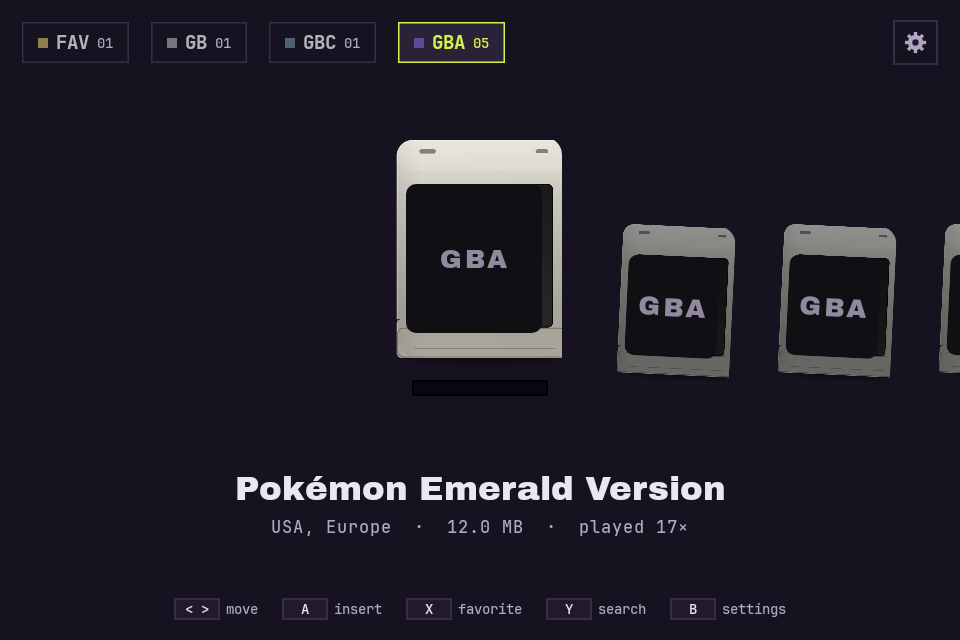
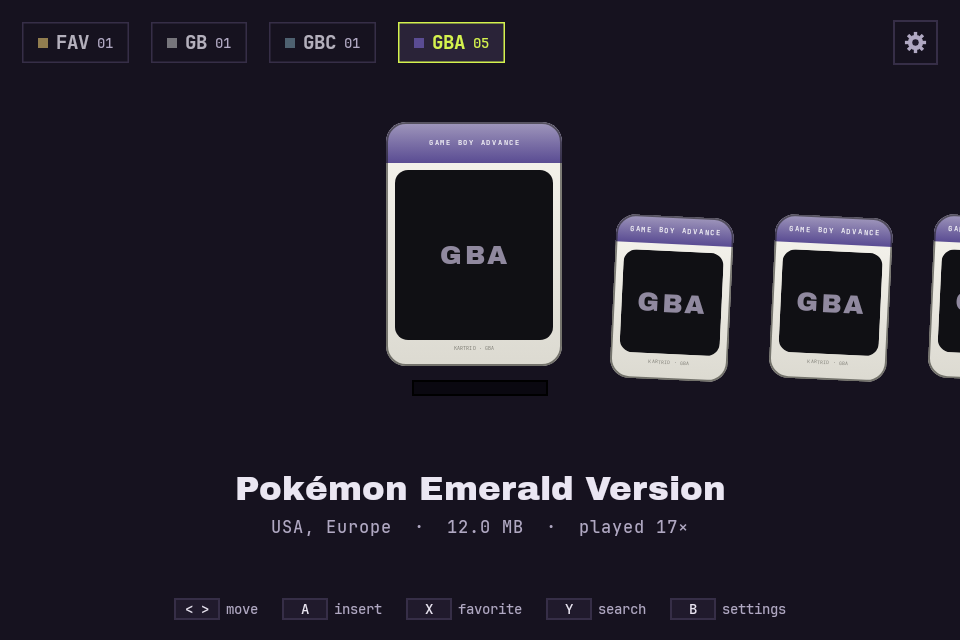
style E: kartrid ala Nintendo Switch (cap warna per-sistem, art area rounded, micro label)

Changed region(s): [[0.625, 0.3125, 0.9375, 0.5938], [0.375, 0.1875, 0.5938, 0.5938], [0.9688, 0.3125, 1.0, 0.5938]]

diff --git a/android/app/src/main/java/id/iqbaldev/kartrid/ui/Cartridge.kt b/android/app/src/main/java/id/iqbaldev/kartrid/ui/Cartridge.kt
@@ -52,8 +52,10 @@ import androidx.compose.ui.graphics.asImageBitmap
  *   kartrid retro (index.html/user, 17 Okt 2026). Semua style pakai Fit.
  * - D "3D": shell photoreal hasil render (drawable-nodpi/cart_gba.png) + boxart
  *   di-overlay pas label rect — 17 Okt 2026, user: "cari file 3d cartridge gba".
+ * - E "Switch": kartrid ala Nintendo Switch — card rounded tipis, top cap WARNA
+ *   per-sistem (sys.shell), area art rounded di bawah + micro label — 17 Okt.
  */
-enum class CartStyle { A, B, C, D }
+enum class CartStyle { A, B, C, D, E }
 
 @Composable
 fun Cartridge(
@@ -66,10 +68,14 @@ fun Cartridge(
     clipFrac: Float = 0f,
     showNotch: Boolean = focused,
     showBand: Boolean = focused,
-    style: CartStyle = CartStyle.D,
+    style: CartStyle = CartStyle.E,
 ) {
     if (style == CartStyle.D) {
         Cartridge3D(sys, art, w, h, focused, modifier, clipFrac)
+        return
+    }
+    if (style == CartStyle.E) {
+        CartridgeSwitch(sys, art, w, h, focused, modifier, clipFrac)
         return
     }
     val outlineRoom = if (focused) 12f else 0f
@@ -80,6 +86,7 @@ fun Cartridge(
         CartStyle.C ->
             RoundedCornerShape(topStart = 16.dp, topEnd = 16.dp, bottomEnd = 4.dp, bottomStart = 4.dp)
         CartStyle.D -> RoundedCornerShape(8.dp) // unreachable (early return), biar exhaustive
+        CartStyle.E -> RoundedCornerShape(8.dp) // unreachable (early return), biar exhaustive
     }
     val shell: Color = shellColor(sys.shell, focused)
     val shadow = if (focused) 8f else 5f
@@ -367,6 +374,108 @@ private fun Cartridge3D(
                     )
                 }
             }
+        }
+    }
+}
+
+/** Style E: kartrid ala Nintendo Switch — card rounded, top cap warna sistem, art bawah */
+@Composable
+private fun CartridgeSwitch(
+    sys: Sys,
+    art: ImageBitmap?,
+    w: Float,
+    h: Float,
+    focused: Boolean,
+    modifier: Modifier = Modifier,
+    clipFrac: Float = 0f,
+) {
+    val shape = RoundedCornerShape(20.dp)
+    val capH = h * 0.17f
+    val artY = capH + 7f
+    val artH = h - artY - 26f
+
+    Box(
+        modifier
+            .size(w.dp, h.dp)
+            .drawWithContent {
+                val bottom = size.height * (1f - clipFrac.coerceIn(0f, 1f))
+                clipRect(right = size.width, bottom = bottom) { this@drawWithContent.drawContent() }
+            }
+            .clip(shape)
+            .border(1.5.dp, Color(0x88171711), shape),
+    ) {
+        // body plastik off-white
+        Box(
+            Modifier
+                .fillMaxSize()
+                .background(Brush.verticalGradient(listOf(Color(0xFFF7F5EF), Color(0xFFDCDAD1)))),
+        )
+        // top cap = warna sistem
+        Box(
+            Modifier
+                .fillMaxWidth()
+                .height(capH.dp)
+                .background(
+                    Brush.verticalGradient(
+                        listOf(Color(sys.shell).copy(alpha = 0.55f), Color(sys.shell)),
+                    ),
+                ),
+            contentAlignment = Alignment.Center,
+        ) {
+            Text(
+                text = sys.longLabel,
+                color = Color(0xEEFFFFFF),
+                fontFamily = MONO,
+                fontSize = 5.6.sp,
+                letterSpacing = 1.4.sp,
+                maxLines = 1,
+            )
+        }
+        // area art rounded
+        Box(
+            Modifier
+                .offset(y = artY.dp)
+                .padding(horizontal = 9.dp)
+                .fillMaxWidth()
+                .height(artH.dp)
+                .clip(RoundedCornerShape(13.dp))
+                .background(Color(0xFF101014)),
+        ) {
+            if (art != null) {
+                Image(
+                    bitmap = art,
+                    contentDescription = null,
+                    modifier = Modifier.fillMaxSize(),
+                    contentScale = ContentScale.Fit,
+                    colorFilter = if (focused) null else ColorFilter.colorMatrix(dimMatrix()),
+                )
+            } else {
+                Box(Modifier.fillMaxSize(), contentAlignment = Alignment.Center) {
+                    Text(
+                        text = sys.label,
+                        color = T.mutedFg.copy(alpha = 0.8f),
+                        fontFamily = DISPLAY,
+                        fontSize = 24.sp,
+                        letterSpacing = 2.sp,
+                    )
+                }
+            }
+        }
+        // micro label bawah
+        Box(
+            Modifier
+                .fillMaxWidth()
+                .offset(y = (h - 21f).dp),
+            contentAlignment = Alignment.Center,
+        ) {
+            Text(
+                text = "KARTRID · ${sys.ext.uppercase()}",
+                color = Color(0x8C171711),
+                fontFamily = MONO,
+                fontSize = 3.8.sp,
+                letterSpacing = 1.1.sp,
+                maxLines = 1,
+            )
         }
     }
 }

diff --git a/android/app/src/test/java/id/iqbaldev/kartrid/PreviewTest.kt b/android/app/src/test/java/id/iqbaldev/kartrid/PreviewTest.kt
@@ -164,6 +164,24 @@ class PreviewTest {
     }
 
     @Test
+    fun cartStyleEPreview() {
+        captureRoboImage("/home/iqbaladinur/hobbies/kartrid/previews/12-cart-style-E.png") {
+            MockCanvas {
+                Box(Modifier.fillMaxSize(), contentAlignment = Alignment.Center) {
+                    Cartridge(
+                        sys = Sys.GBA,
+                        art = art("gba_Pokemon_-_Emerald_Version__USA__Europe_.png"),
+                        w = 176f,
+                        h = 244f,
+                        focused = true,
+                        style = CartStyle.E,
+                    )
+                }
+            }
+        }
+    }
+
+    @Test
     fun settingsPreview() {
         captureRoboImage("/home/iqbaladinur/hobbies/kartrid/previews/02-settings.png") {
             MockCanvas {

diff --git a/android/app/src/main/java/id/iqbaldev/kartrid/ui/ShelfScreen.kt b/android/app/src/main/java/id/iqbaldev/kartrid/ui/ShelfScreen.kt
@@ -67,11 +67,11 @@ import kotlin.math.sign
 private const val TOP_H = 84f
 private const val FAV_SHELL = 0xFFFFC94D
 private const val CENTER_X = 480f
-// kartrid PORTRAIT 3D (asset cart_gba.png 0.769:1) — "memanjang vertical" versi beneran
+// kartrid PORTRAIT — Switch-card style (0.72:1)
 private const val CART_BOTTOM = 380f
 private const val FOCUS_W = 176f
-private const val FOCUS_H = 229f
-private const val ITEM_W = 120f
+private const val FOCUS_H = 244f
+private const val ITEM_W = 118f
 private const val GAP = 40f
 private const val SLOT_W = 136f
 private const val SLOT_H = 16f
